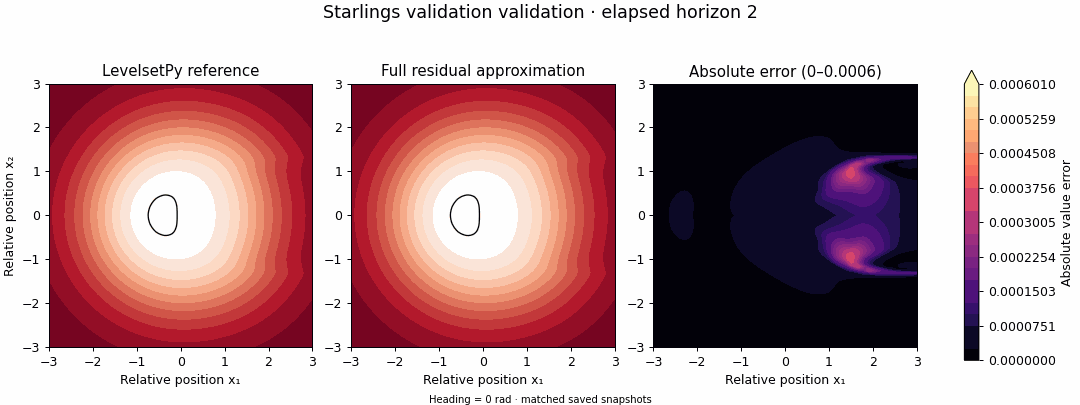
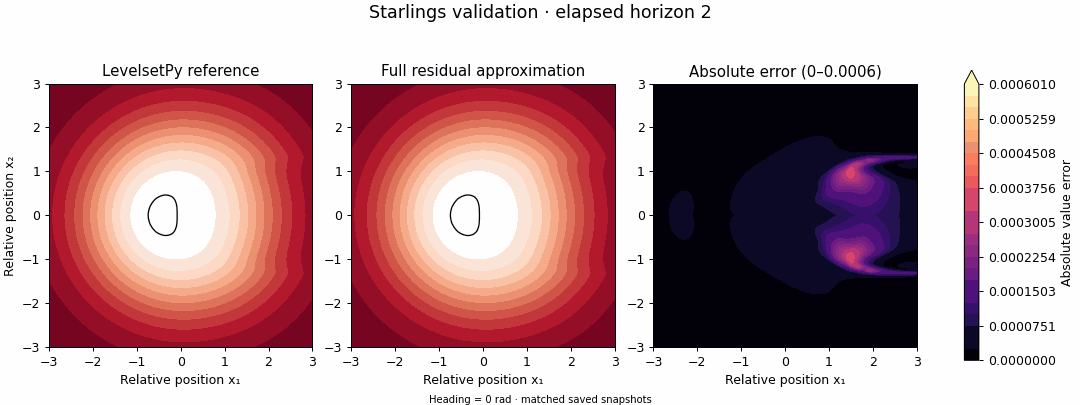
Fix duplicated Starlings validation heading

Changed region(s): [[0.3056, 0.0, 0.7028, 0.0593]]

diff --git a/scripts/generate_royal_soc_animations.py b/scripts/generate_royal_soc_animations.py
@@ -54,7 +54,8 @@ def render(root,out,case):
             if not ttl.startswith('Absolute') and z.min()<0<z.max(): ax.contour(X,Y,z,[0],colors='black',linewidths=1)
             ax.set(xlim=(-extent,extent),ylim=(-extent,extent),aspect='equal',xlabel=labels[0],title=ttl)
             ax.set_ylabel(labels[1] if ax is axs[0] else '')
-        fig.suptitle(f'{title} validation · elapsed horizon {t:g}',fontsize=14)
+        heading_text = title if 'validation' in title.lower() else f'{title} validation'
+        fig.suptitle(f'{heading_text} · elapsed horizon {t:g}',fontsize=14)
         fig.colorbar(im,ax=axs.ravel().tolist(),shrink=.78,label='Absolute value error' if error else 'Value')
         if heading is not None: fig.text(.5,.005,f'Heading = {heading} rad · matched saved snapshots',ha='center',fontsize=8)
         with io.BytesIO() as bfr:
